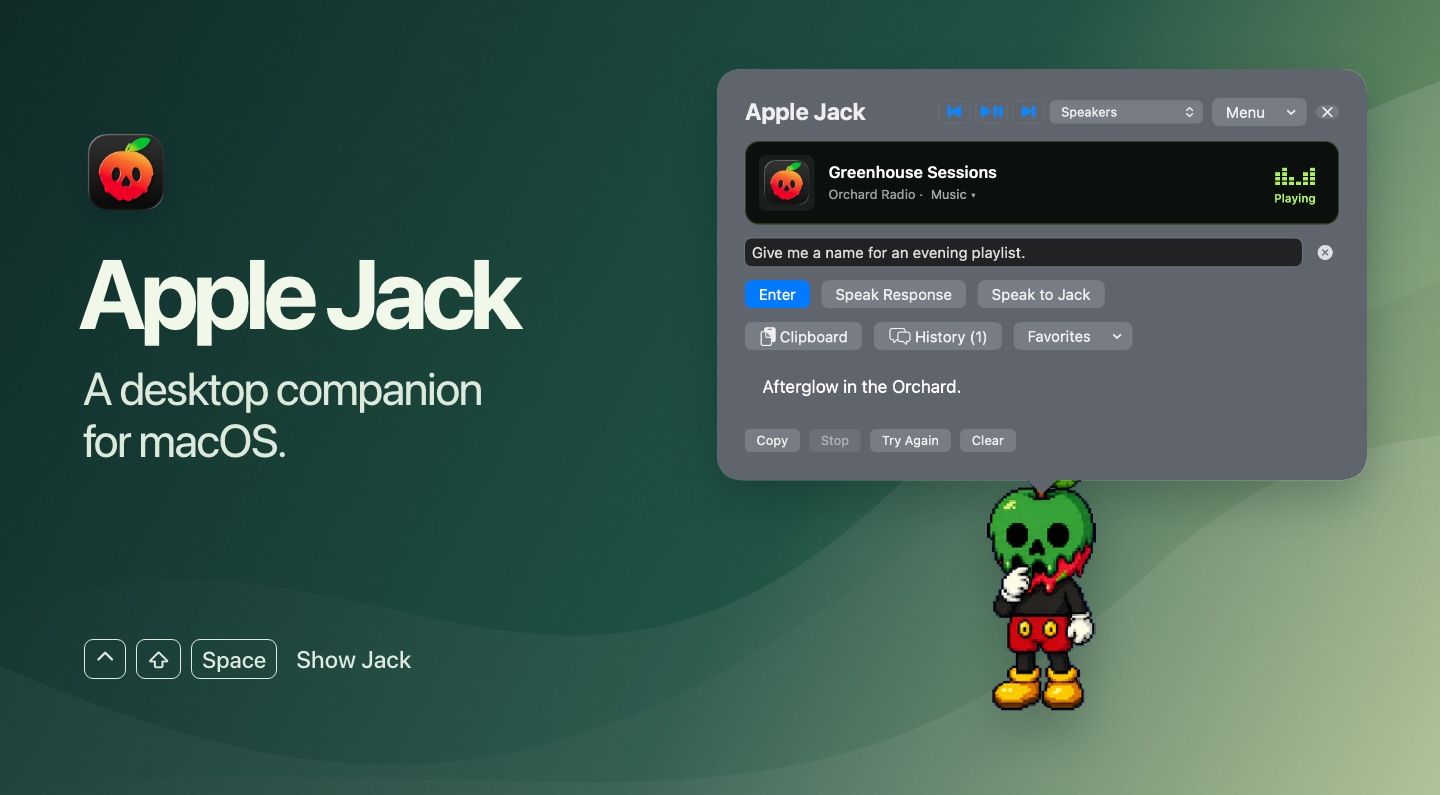
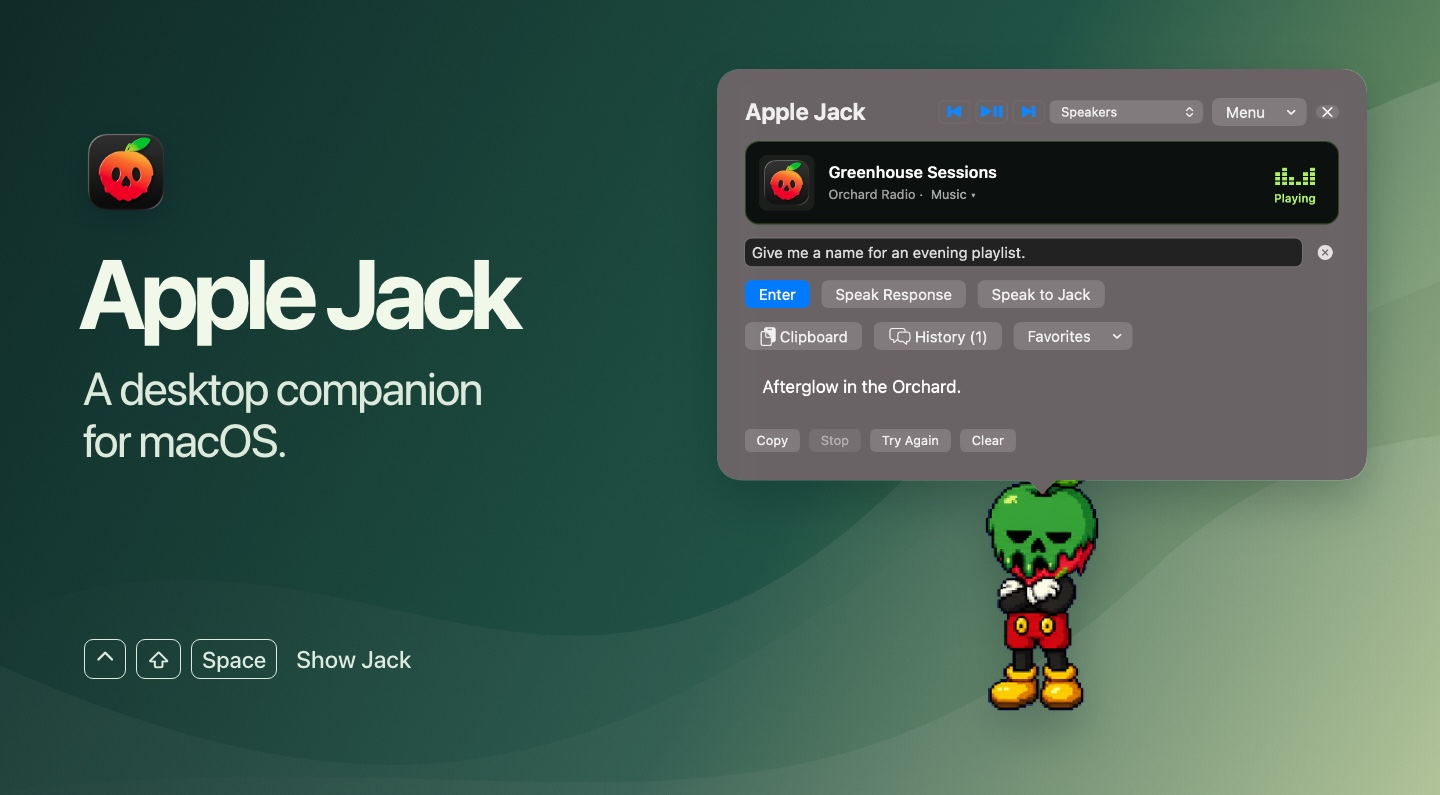
Show Jack with crossed arms and waving in the gallery

Changed region(s): [[0.6875, 0.6038, 0.7812, 0.9057]]

diff --git a/README.md b/README.md
@@ -4,7 +4,7 @@
 
 Choose Apple Jack or Fonz, or bring a pet you designed in ChatGPT. Click your companion to chat with ChatGPT in its speech bubble, pause your music, or find a link you copied earlier. To move a file between windows, drop it onto your companion, switch windows, and drag it out where you need it.
 
-![Apple Jack beside his speech bubble, with playback controls, a sample playlist question, and the Control–Shift–Space shortcut.](Docs/Screenshots/desktop.jpg)
+![Apple Jack stands with his arms crossed beneath his speech bubble, which shows playback controls and a sample playlist conversation. Control–Shift–Space opens the bubble.](Docs/Screenshots/desktop.jpg)
 
 **[Download the 0.51 preview](https://github.com/B4D4PPL3/Apple-Jack/releases/tag/v0.51-preview.1)** · macOS 13 or later · Apple silicon and Intel · [Installation instructions](#install)
 
@@ -22,7 +22,7 @@ Choose Apple Jack or Fonz, or bring a pet you designed in ChatGPT. Click your co
 
 Drop files, images, links, or text onto either character. Drag them back out when you need them, or select a thumbnail and press **Space** for a preview.
 
-![Detail of the Hold This shelf above Apple Jack with a track list, a music link, and a text note. Space previews the selected item.](Docs/Screenshots/hold-this.jpg)
+![Apple Jack waves beneath the Hold This shelf, which contains a track list, a music link, and a note. Space previews the selected item.](Docs/Screenshots/hold-this.jpg)
 
 ### Conversation history
 
